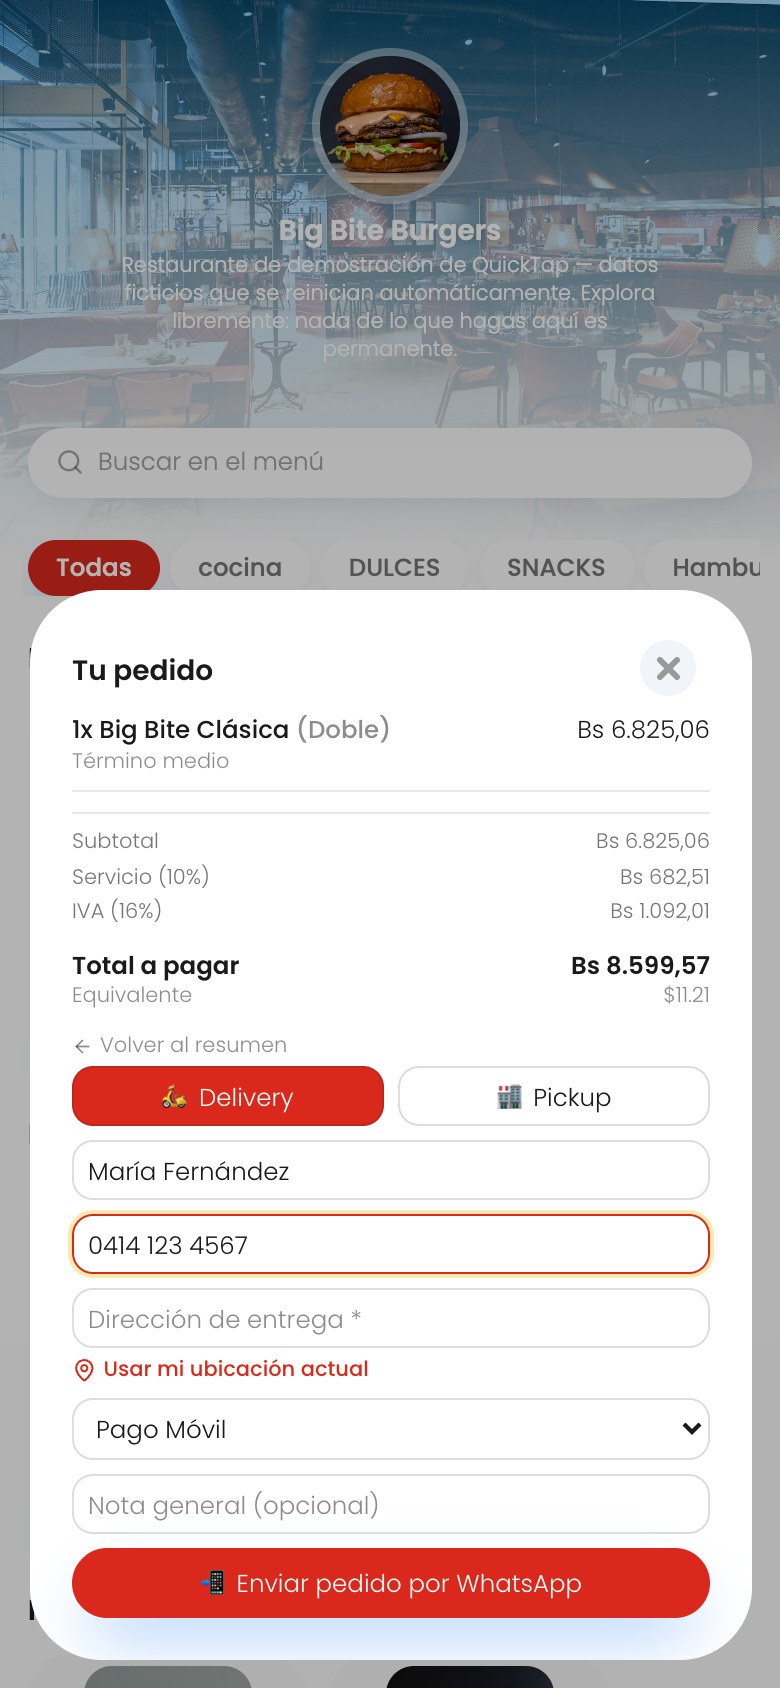
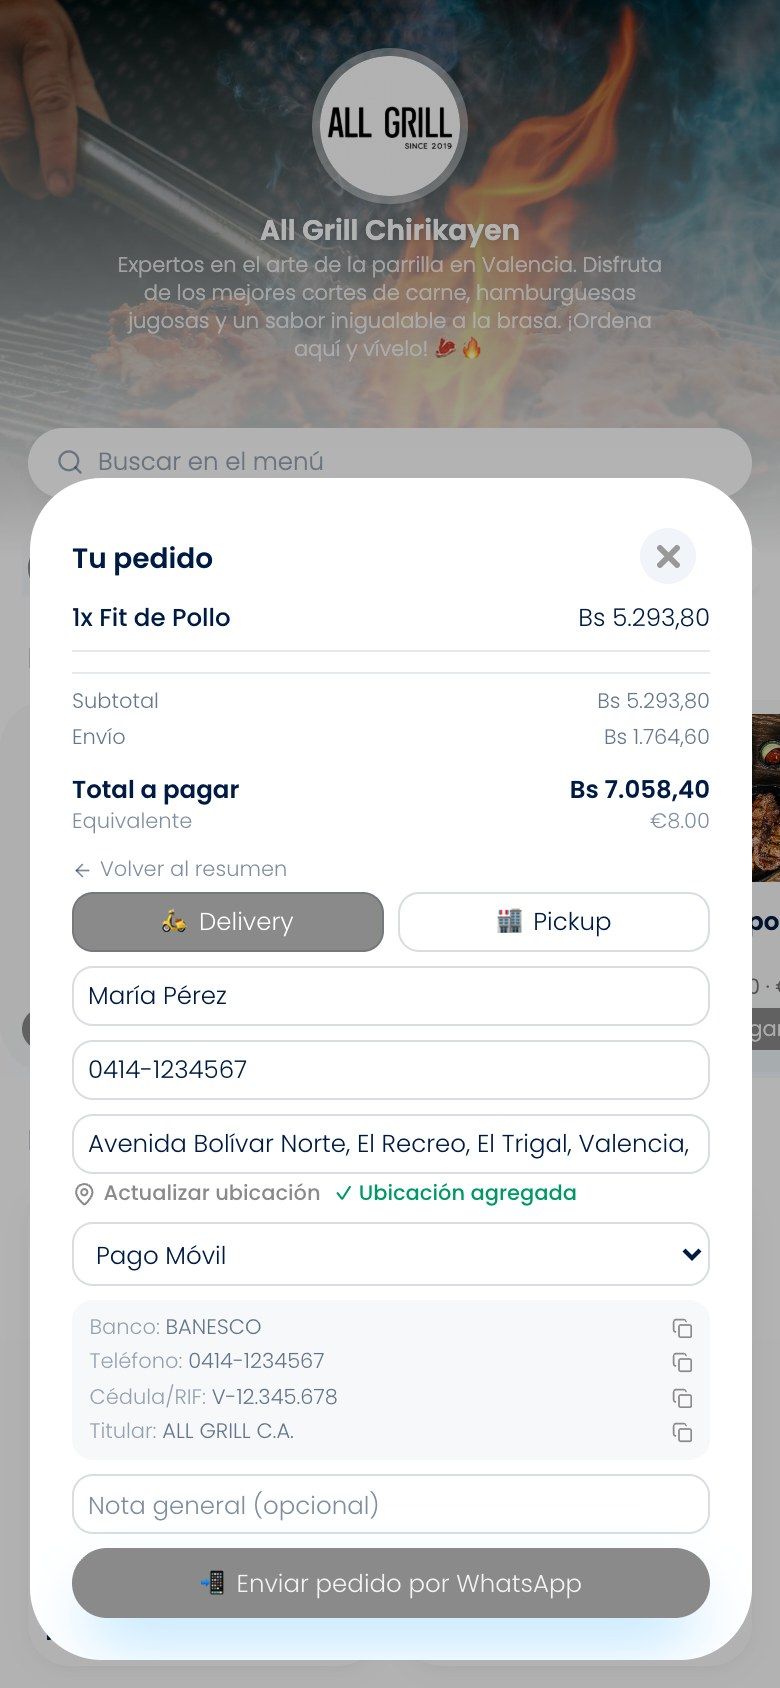
feat(landing+seo): la captura de delivery/WhatsApp ahora es del checkout real de All Grill
Pedido real con envío calculado por zona (mapa) y botón de WhatsApp. Los datos
de Pago Móvil del dueño (teléfono, cédula, titular) se sustituyeron por valores
genéricos en la imagen — es material de marketing, no debe exponerlos.

diff --git a/web/src/data/seoPages.ts b/web/src/data/seoPages.ts
@@ -174,8 +174,9 @@ export const SEO_SERVICES: SeoServicePage[] = [
       'Tú solo confirmas. El pedido queda también registrado en tu panel, así que no vives copiando mensajes a un cuaderno — la venta entra al sistema sola, con su cliente y su historial.',
     ],
     screenshot: {
+      // Checkout real de un cliente (All Grill Chirikayen), con envío por zona calculado.
       src: '/images/restaurant-delivery-captura.jpg',
-      alt: 'Carrito de pedido en línea con el botón de enviar pedido por WhatsApp, nombre y teléfono del cliente completados',
+      alt: 'Pedido de delivery de All Grill Chirikayen listo para enviarse por WhatsApp, con el envío calculado por zona y el total en bolívares',
     },
     features: [
       { title: 'Pedido completo, no un audio', text: 'Productos, variantes, extras, notas, dirección y pago — todo en un solo mensaje ordenado.' },

diff --git a/web/src/pages/LandingPage.tsx b/web/src/pages/LandingPage.tsx
@@ -266,7 +266,7 @@ const SHOWCASES: Showcase[] = [
     mock: (
       <PhoneMockup
         src="/images/restaurant-delivery-captura.jpg"
-        alt="Checkout real de delivery con los datos del cliente y el botón para enviar el pedido por WhatsApp"
+        alt="Checkout de delivery real de All Grill Chirikayen, con el envío calculado por zona y el botón para enviar el pedido por WhatsApp"
       />
     ),
   },
